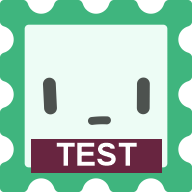
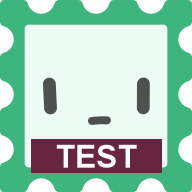
テスト版ヘッダーのTEST表示をPWAアイコンに揃える (#555)
* fix: テスト版ヘッダーの表示をPWAアイコンに揃える

* fix: TEST帯の文字を上下中央に揃える

* fix: テスト版PWAアイコンの文字を上下中央に揃える

Changed region(s): [[0.2812, 0.7188, 0.7188, 0.875], [0.3125, 0.8438, 0.375, 0.875], [0.6562, 0.8438, 0.6875, 0.875]]

diff --git a/src/components/HeaderComponent.svelte b/src/components/HeaderComponent.svelte
@@ -307,13 +307,14 @@
     .test-build-label {
         flex: none;
         margin-inline: 4px;
-        padding: 2px 6px;
-        border-radius: 4px;
+        /* Center the visible Arial capitals within the band. */
+        padding: 3px 6px 1px;
         background: #682540;
         color: white;
+        font-family: Arial, sans-serif;
         font-size: 0.75rem;
         font-weight: 700;
-        line-height: 1.4;
+        line-height: 1.1;
         white-space: nowrap;
     }
 
@@ -326,33 +327,19 @@
         margin-top: auto;
     }
 
-    @media (width <= 420px) {
-        .test-build-with-mascot {
-            position: relative;
-        }
+    .test-build-with-mascot {
+        position: relative;
+    }
 
-        .test-build-with-mascot .site-icon-link {
-            justify-content: center;
-            width: 52px;
-            flex: none;
-        }
-
-        .test-build-with-mascot .site-icon {
-            width: 36px;
-            height: 36px;
-            margin: 1px 0 0;
-        }
-
-        .test-build-with-mascot .test-build-label {
-            position: absolute;
-            inset-inline-start: 0;
-            bottom: 2px;
-            box-sizing: border-box;
-            width: 52px;
-            margin: 0;
-            padding-inline: 0;
-            text-align: center;
-        }
+    .test-build-with-mascot .test-build-label {
+        position: absolute;
+        inset-inline-start: 8px;
+        bottom: 4px;
+        width: 36px;
+        margin: 0;
+        padding-inline: 0;
+        text-align: center;
+        pointer-events: none;
     }
 
     .compact-message {
